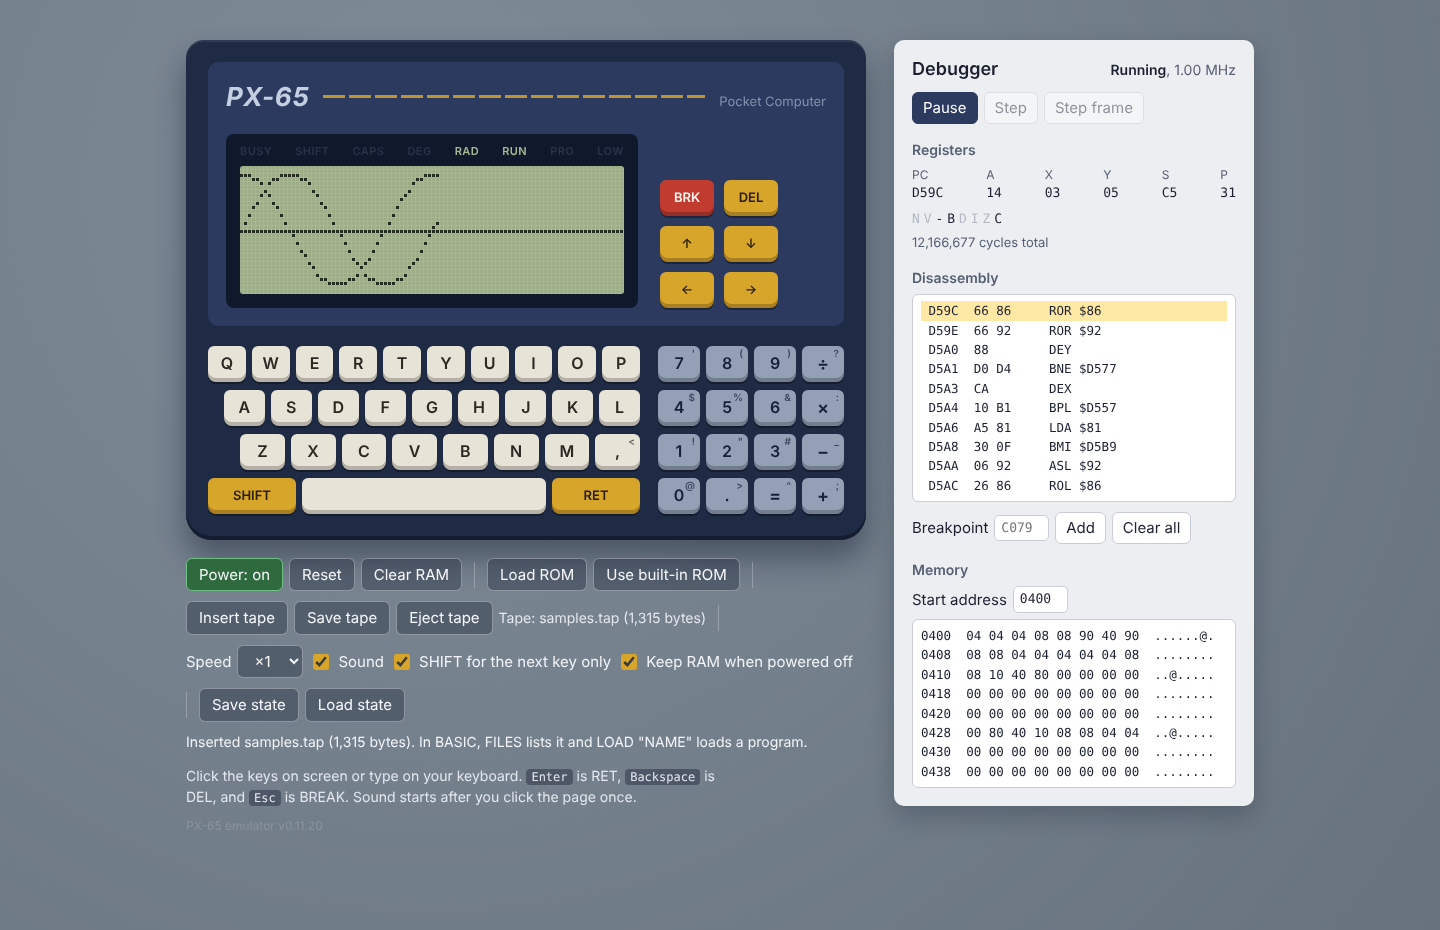
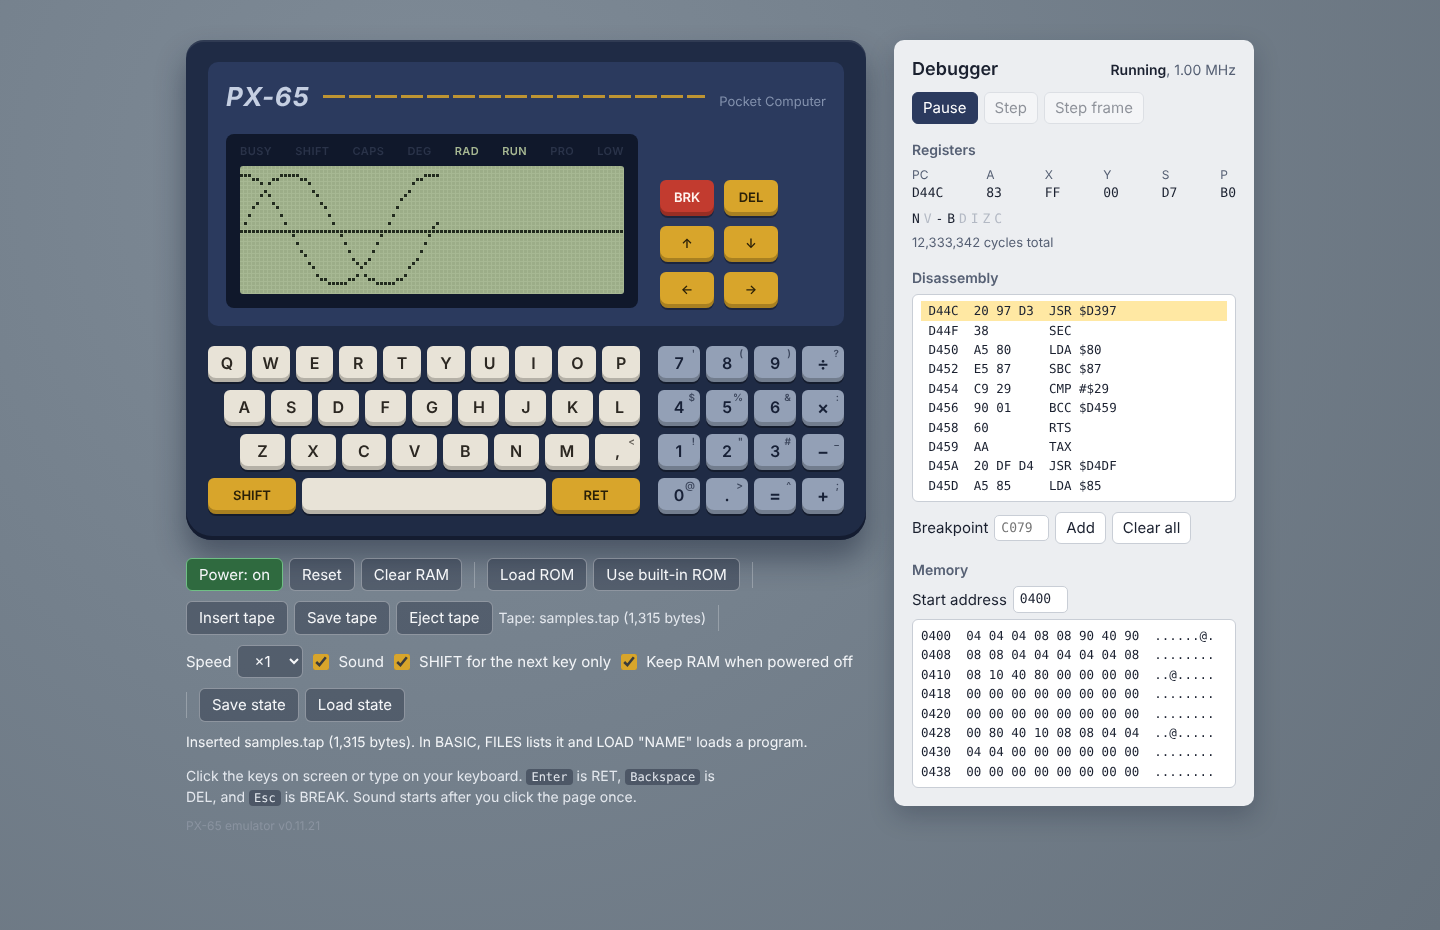
PX-65 0.11.21: publish only the head of main
- .github/workflows/pages.yml: just before publishing, check that the
  commit is still the head of main, and skip it if not, so an older
  commit whose tests finish later never overwrites a newer one (P27-01).
  Publish only from main, also for manual runs.
- README (ja/en): describe this.

The ROM is unchanged.

Claude-Session: https://claude.ai/code/session_018cBvzNseFcQJVomp4puYnc

Changed region(s): [[0.6562, 0.3118, 0.7812, 0.5301], [0.6562, 0.2495, 0.7188, 0.2806], [0.6875, 0.3118, 0.7188, 0.343]]

diff --git a/dist/px65.html b/dist/px65.html
@@ -1,5 +1,5 @@
 <!doctype html>
-<!-- PX-65 emulator v0.11.20. CC0 1.0 Universal (public domain dedication): https://creativecommons.org/publicdomain/zero/1.0/ -->
+<!-- PX-65 emulator v0.11.21. CC0 1.0 Universal (public domain dedication): https://creativecommons.org/publicdomain/zero/1.0/ -->
 <html lang="ja">
 <head>
 <meta charset="utf-8">
@@ -521,7 +521,7 @@ select.btn { padding-right: 6px; }
       <span class="pc">画面のキーをクリックするか、PCのキーボードで入力できます。<kbd>Enter</kbd> がRET、<kbd>Backspace</kbd> がDEL、<kbd>Esc</kbd> がBREAKです。音はページを一度クリックすると鳴るようになります。</span>
       <span class="touch">「123」のキーで数字キーに、「ABC」で文字キーに切り替わります。音は画面を一度タップすると鳴るようになります。iPhoneはマナーモードのときは音が出ません。</span>
     </p>
-    <p class="version">PX-65 emulator v0.11.20</p>
+    <p class="version">PX-65 emulator v0.11.21</p>
   </div>
 
   <aside class="debug" id="debug" aria-label="デバッガ">

diff --git a/dist/index.html b/dist/index.html
@@ -1,5 +1,5 @@
 <!doctype html>
-<!-- PX-65 emulator v0.11.20. CC0 1.0 Universal (public domain dedication): https://creativecommons.org/publicdomain/zero/1.0/ -->
+<!-- PX-65 emulator v0.11.21. CC0 1.0 Universal (public domain dedication): https://creativecommons.org/publicdomain/zero/1.0/ -->
 <html lang="ja">
 <head>
 <meta charset="utf-8">
@@ -117,7 +117,7 @@ footer a { color: var(--silk); }
   </div>
   <footer>
     <div>はじめての方は <a href="https://github.com/ocllorunner-ai/px65/blob/main/docs/guide.md">はじめてガイド</a> / <span lang="en">New here? Read the <a href="https://github.com/ocllorunner-ai/px65/blob/main/docs/guide.en.md">getting started guide</a>.</span></div>
-    <div>ソース / <span lang="en">Source</span>: <a href="https://github.com/ocllorunner-ai/px65">github.com/ocllorunner-ai/px65</a> · CC0 1.0 · v0.11.20</div>
+    <div>ソース / <span lang="en">Source</span>: <a href="https://github.com/ocllorunner-ai/px65">github.com/ocllorunner-ai/px65</a> · CC0 1.0 · v0.11.21</div>
   </footer>
 </main>
 </body>

diff --git a/dist/px65-en.html b/dist/px65-en.html
@@ -1,5 +1,5 @@
 <!doctype html>
-<!-- PX-65 emulator v0.11.20. CC0 1.0 Universal (public domain dedication): https://creativecommons.org/publicdomain/zero/1.0/ -->
+<!-- PX-65 emulator v0.11.21. CC0 1.0 Universal (public domain dedication): https://creativecommons.org/publicdomain/zero/1.0/ -->
 <html lang="en">
 <head>
 <meta charset="utf-8">
@@ -521,7 +521,7 @@ select.btn { padding-right: 6px; }
       <span class="pc">Click the keys on screen or type on your keyboard. <kbd>Enter</kbd> is RET, <kbd>Backspace</kbd> is DEL, and <kbd>Esc</kbd> is BREAK. Sound starts after you click the page once.</span>
       <span class="touch">Tap 123 for number keys and ABC for letter keys. Sound starts after you tap the screen once. iPhones make no sound in silent mode.</span>
     </p>
-    <p class="version">PX-65 emulator v0.11.20</p>
+    <p class="version">PX-65 emulator v0.11.21</p>
   </div>
 
   <aside class="debug" id="debug" aria-label="Debugger">

diff --git a/README.md b/README.md
@@ -120,7 +120,7 @@ npm run screenshot:monitor      # モニターの起動画面を docs/monitor.pn
 npm run screenshot:testpattern  # テスト用ROMの画面を docs/test_pattern.png に保存
 ```
 
-GitHub の main に送ると、GitHub Actions(`.github/workflows/pages.yml`)が `npm test` をして、通ったら `dist/` を公開ページに出す。`npm test` は `dist/` がソースから作り直したものと同じかも調べるので、`npm run build` を忘れて送ると公開されない。プルリクエストではテストだけをする。
+GitHub の main に送ると、GitHub Actions(`.github/workflows/pages.yml`)が `npm test` をして、通ったら `dist/` を公開ページに出す。`npm test` は `dist/` がソースから作り直したものと同じかも調べるので、`npm run build` を忘れて送ると公開されない。公開するのは main の先頭のコミットだけで、続けて送ったときに古いコミットが後から公開されることはない。プルリクエストと、main 以外のブランチで手で動かしたときは、テストだけをする。
 
 別のROMを内蔵ROMにするときは `node tools/build.js --rom <ROM.bin>`(`--rom` を省くとテスト用ROMになる)。
 
@@ -221,7 +221,7 @@ npm run test:cpu -- ../6502tests
 
 | | 今のバージョン | 表示される場所 | 決めている所 |
 | --- | --- | --- | --- |
-| エミュレーター | 0.11.20 | 画面のいちばん下(`PX-65 emulator v0.11.20`)、配布用HTMLの先頭のコメント | `package.json` の `version`(ビルドのときに埋め込む) |
+| エミュレーター | 0.11.21 | 画面のいちばん下(`PX-65 emulator v0.11.21`)、配布用HTMLの先頭のコメント | `package.json` の `version`(ビルドのときに埋め込む) |
 | 内蔵ROM | 0.11 | BASIC の起動画面(`PX-65 BASIC 0.11`)、モニターだけのROMの起動画面(`V0.11`) | `rom/basic_main.s` の `b_banner`、`rom/monitor.s` |
 
 エミュレーターは、不具合の修正では3つ目の数字を、機能の追加では2つ目の数字を上げます。ROM の番号は(起動画面の1行に収めるため)2つだけで、機能の追加で2つ目の数字を上げます。ROM の不具合の修正は、内蔵ROMを含むエミュレーターの3つ目の数字に表れます。完成したら、どちらも 1.0 にします。

diff --git a/README.en.md b/README.en.md
@@ -122,7 +122,7 @@ npm run screenshot:monitor      # save the monitor's startup screen to docs/moni
 npm run screenshot:testpattern  # save the test ROM's screen to docs/test_pattern.png
 ```
 
-When you push to main on GitHub, GitHub Actions (`.github/workflows/pages.yml`) runs `npm test` and, if it passes, publishes `dist/` to the site. `npm test` also checks that `dist/` matches a fresh build from the sources, so if you forget `npm run build`, nothing is published. Pull requests are only tested.
+When you push to main on GitHub, GitHub Actions (`.github/workflows/pages.yml`) runs `npm test` and, if it passes, publishes `dist/` to the site. `npm test` also checks that `dist/` matches a fresh build from the sources, so if you forget `npm run build`, nothing is published. Only the commit at the head of main is published, so when you push several times in a row, an older commit is never published after a newer one. Pull requests, and manual runs on branches other than main, are only tested.
 
 To build with a different built-in ROM, use `node tools/build.js --rom <ROM.bin>` (without `--rom`, the test ROM is used).
 
@@ -223,7 +223,7 @@ The emulator and the built-in ROM have separate version numbers.
 
 | | Current version | Where it is shown | Where it is set |
 | --- | --- | --- | --- |
-| Emulator | 0.11.20 | At the bottom of the page (`PX-65 emulator v0.11.20`), and in the comment at the top of the distributed HTML | `version` in `package.json` (inserted by the build) |
+| Emulator | 0.11.21 | At the bottom of the page (`PX-65 emulator v0.11.21`), and in the comment at the top of the distributed HTML | `version` in `package.json` (inserted by the build) |
 | Built-in ROM | 0.11 | BASIC's startup screen (`PX-65 BASIC 0.11`), and the startup screen of the monitor-only ROM (`V0.11`) | `b_banner` in `rom/basic_main.s`, and `rom/monitor.s` |
 
 For the emulator, bug fixes raise the third number and new features raise the second. The ROM version has only two numbers (so that it fits on one line of the startup screen), and new features raise the second. Bug fixes in the ROM show up in the third number of the emulator, which contains the built-in ROM. Both become 1.0 when the project is finished.
